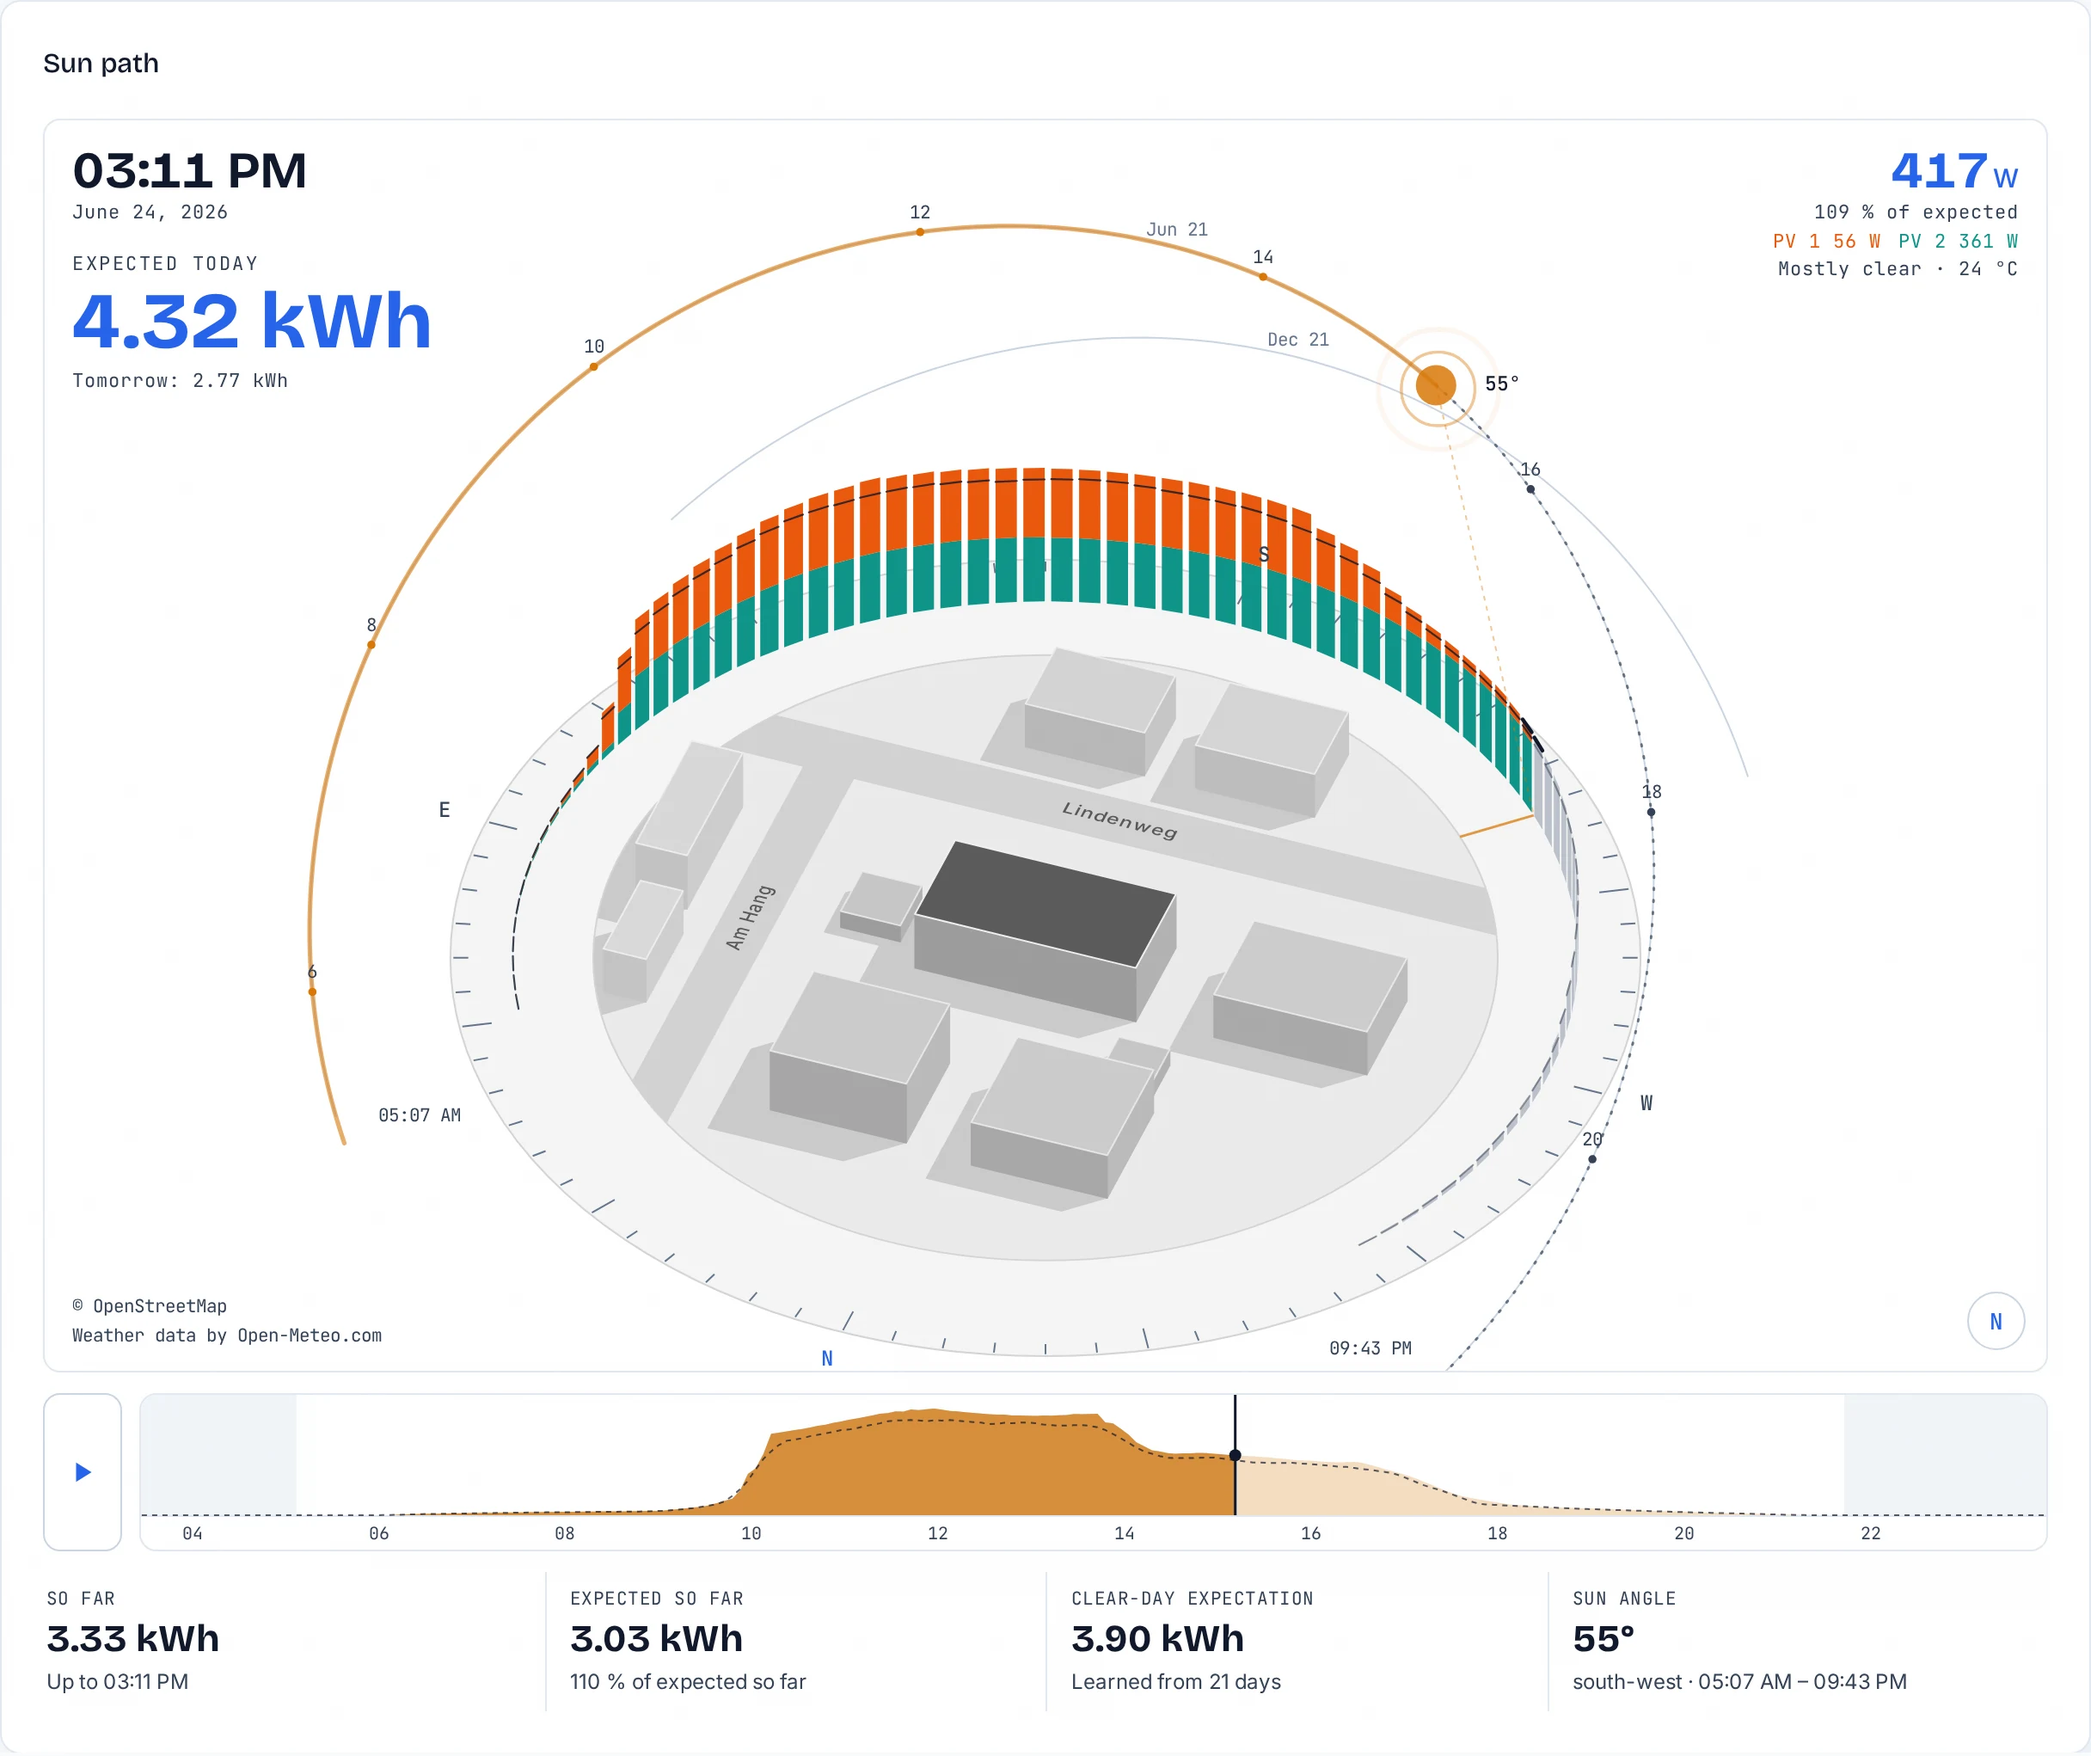
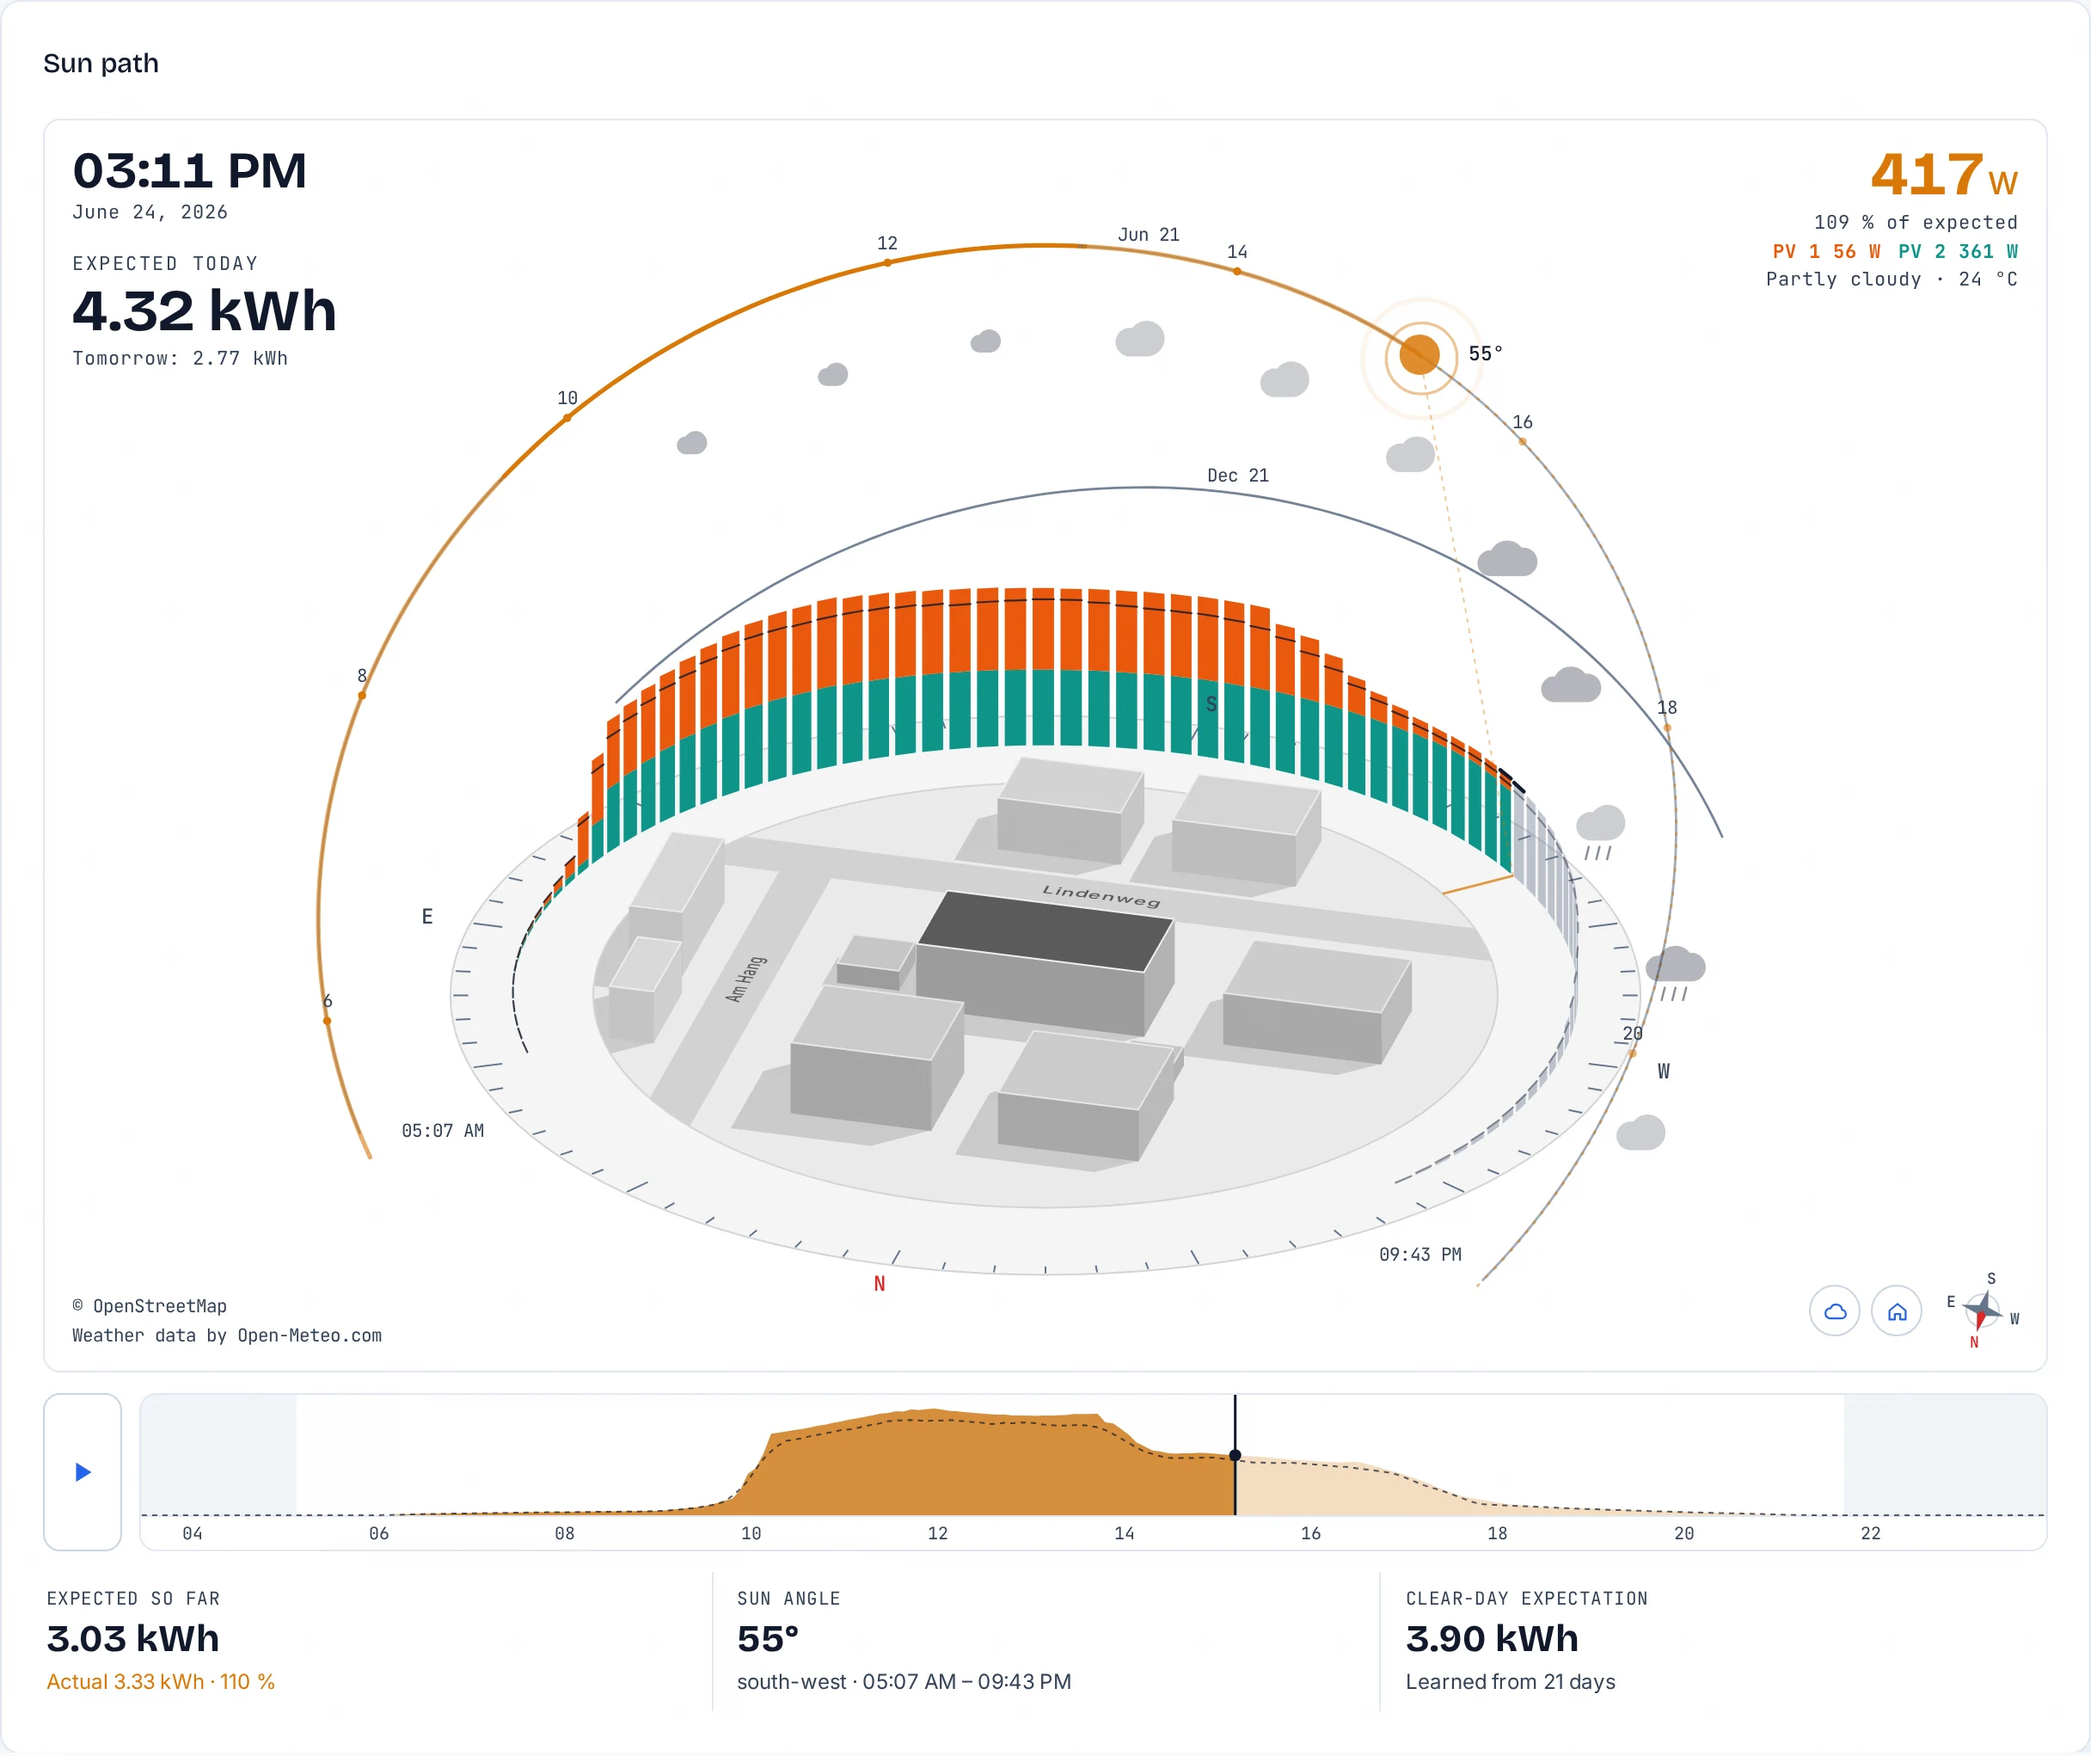
docs: v1.15.0 notes, new screenshots

diff --git a/README.md b/README.md
@@ -96,7 +96,7 @@ to live grid CO₂ data.
     <td colspan="2"><picture><source media="(prefers-color-scheme: dark)" srcset="docs/screenshots/sun-scene-dark.webp"><img src="docs/screenshots/sun-scene-light.webp" alt="Sun path and yield bars around a reduced street map, with today's projection"></picture></td>
   </tr>
   <tr>
-    <td colspan="2"><sub><b>Sun path.</b> Drag to rotate, scrub or play the day. The map is a made-up street here; with <code>SITE_ADDRESS</code> it is yours.</sub></td>
+    <td colspan="2"><sub><b>Sun path.</b> Drag to rotate, scrub or play the day. The compass rose turns the view to a direction, the house button back to the default and plays the day. The map is a made-up street here; with <code>SITE_ADDRESS</code> it is yours.</sub></td>
   </tr>
   <tr>
     <td colspan="2"><img src="docs/screenshots/year-weekly-dark.webp" alt="Year view with weekly bars"></td>
@@ -362,6 +362,9 @@ forecast into a curve for the rest of today, a projection from the start of the
 day and an estimate for tomorrow. The earlier it is, the more the forecast
 counts against how the day has gone so far; from midday on they count half
 each. Without a recent forecast the card falls back to your own history.
+The scene also draws each hour's weather along the sun's path: clouds, rain,
+snow, a thunderstorm, and a veil of fog over the map. The cloud button next to
+the compass rose hides it.
 
 Tested on 139 days of one plant from June to November, each day estimated only
 from the days before it and with the forecast as it was published a day
@@ -419,7 +422,7 @@ unauthenticated — meant for the LAN.
 | `GET /api/history?range=week&week=YYYY-Www` | A specific ISO week (daily bars + summary) |
 | `GET /api/history?range=month&month=YYYY-MM` | A specific month (daily bars + summary) |
 | `GET /api/history?range=multiyear&granularity=monthly\|yearly` | All years |
-| `GET /api/yield-curve?date=YYYY-MM-DD` | A day in 5-minute slots with learned expectation, today's projection and forecast |
+| `GET /api/yield-curve?date=YYYY-MM-DD` | A day in 5-minute slots with learned expectation, today's projection, forecast and hourly weather |
 | `GET /api/site` | Location and map cut-out for the sun path card |
 | `GET /api/stats` | Aggregated statistics with same-period and YoY comparisons |
 | `GET /api/highscores` | All-time best day/week/month/year with animation state |

diff --git a/UPGRADING.md b/UPGRADING.md
@@ -31,6 +31,22 @@ are idempotent. Only these releases do anything noticeable on first start:
 
 The rest of this file is the release history, newest first.
 
+## From v1.14.0 to v1.15.0
+
+No manual steps, no database changes.
+
+- **Weather in the sun path.** With `WEATHER_ENABLED` the scene draws each
+  hour's weather between the house and the sun: clouds, rain, snow, a
+  thunderstorm, fog over the map. A button next to the compass hides it.
+- **Compass rose and default view.** The rose turns with the view; its letters
+  look north, east, south or west. The house button moves slowly back to the
+  default view, now flatter and a little further south, and plays the day.
+- **Calmer figures.** Three tiles instead of four: what was expected so far,
+  with the actual value below it, sun angle and clear-day expectation. Measured
+  values are in the sun's colour, expected ones neutral, north is red.
+- **API.** `/api/yield-curve` adds `weather_hours`, the WMO code of each hour of
+  the day.
+
 ## From v1.13.0 to v1.14.0
 
 No manual steps, no database changes.
